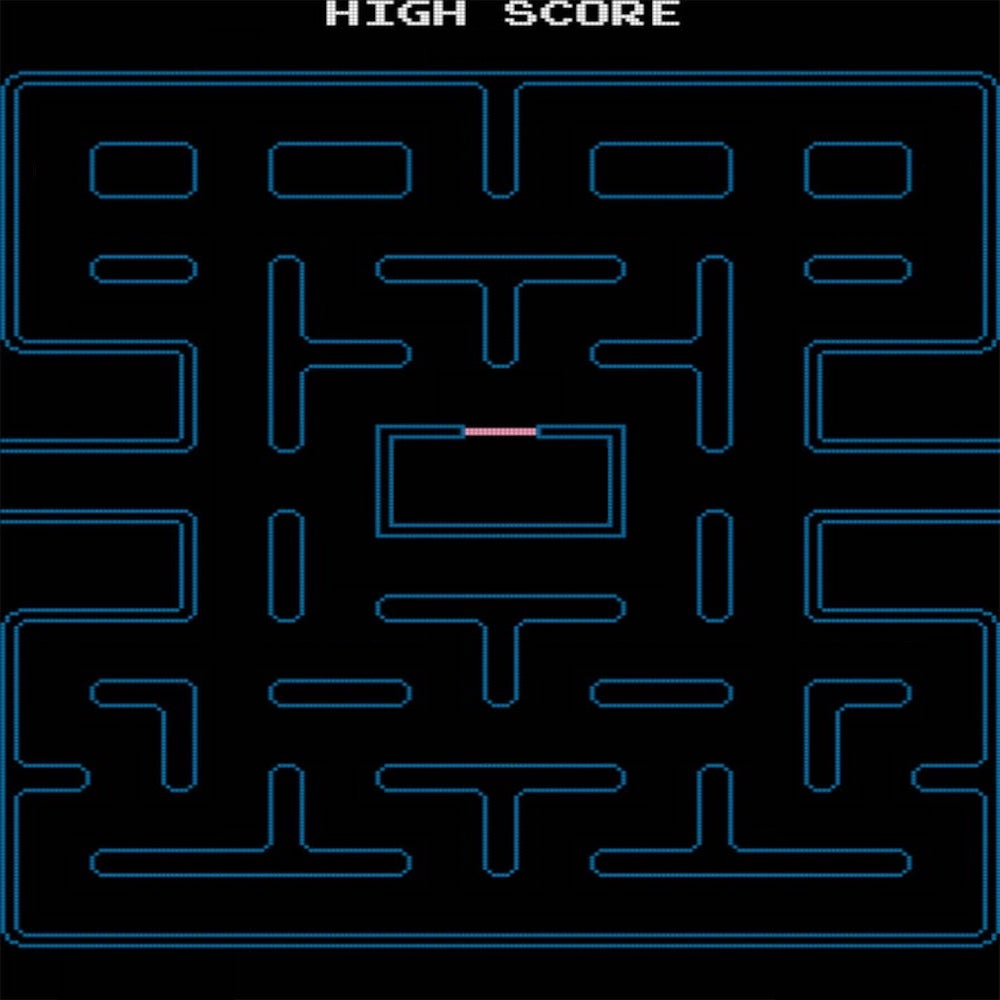
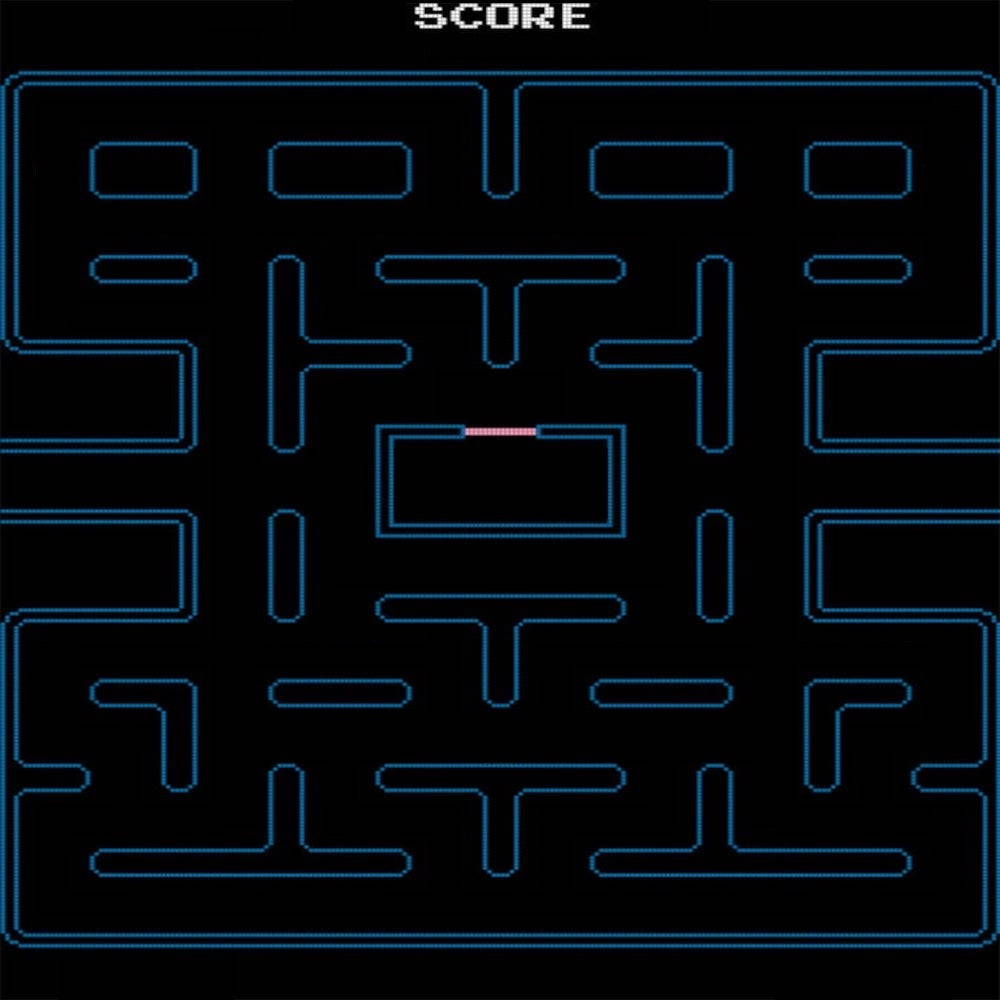
Updated the arena image to say score instead of high score

Changed region(s): [[0.31, 0.0, 0.682, 0.031]]

diff --git a/src/itscoronatime/ItsCoronaTime.java b/src/itscoronatime/ItsCoronaTime.java
@@ -606,7 +606,7 @@ public class ItsCoronaTime extends Application {
 
 
         //create scoreboard
-        Text scoreBoard = new Text(425, 60, String.format("%06d", person.getScore()));
+        Text scoreBoard = new Text(430, 60, String.format("%06d", person.getScore()));
         scoreBoard.setFill(Color.WHITE);
         scoreBoard.setFont(Font.font(40));
 
